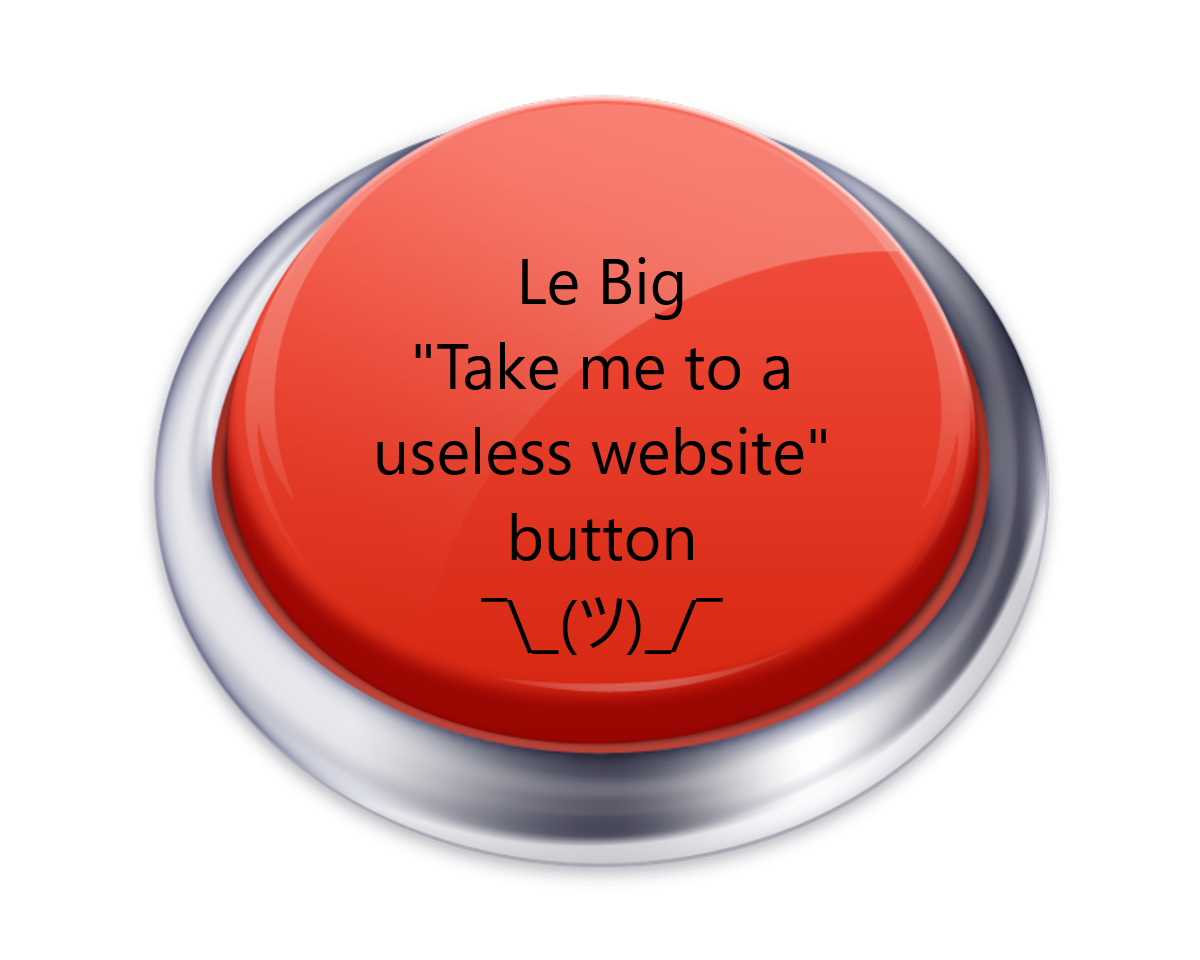
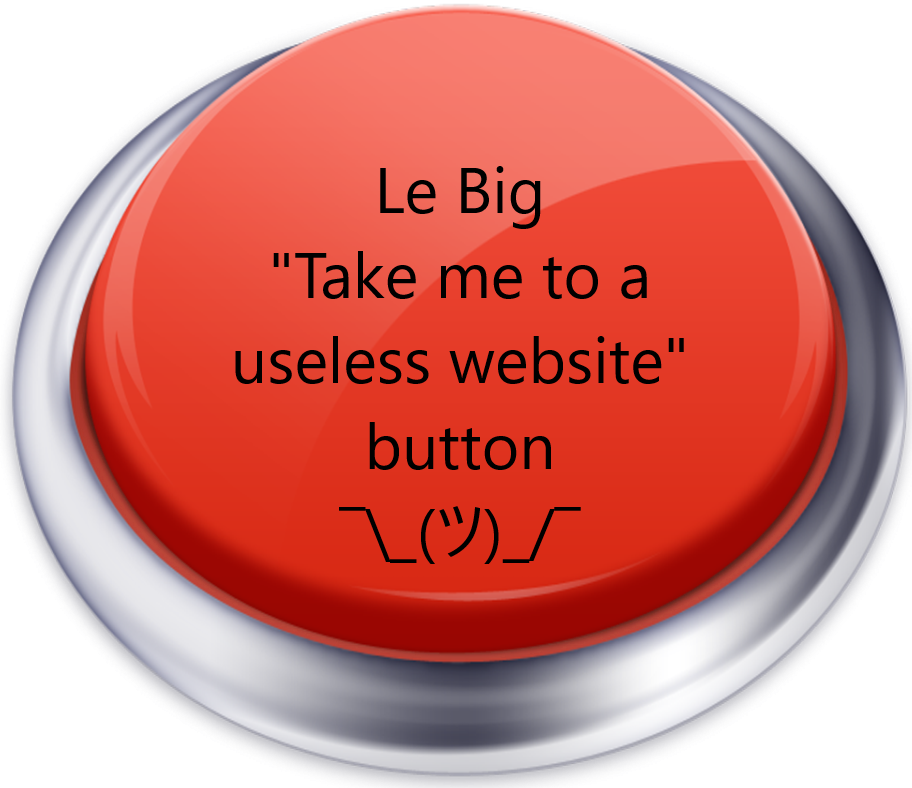
le site

diff --git a/Assignment/Lecture 2/index.html b/Assignment/Lecture 2/index.html
@@ -14,20 +14,23 @@
         <div class="shape2"></div>
         <div class="shape3"></div>
         <div class="shape4"></div>
-        <h1>Hello HTML... again</h1>
+        <h1 id="homeLink">Hello HTML... again</h1>
         <p class="text1">First experiences of learning zis programming was quite rich, 
             but overwhelming, since final project from previous years in college 
             made me rush too much :( <br><b>But</b> needless to say, while I was making a project, 
             <i> I did manage to learn most of HTML tags at least on the basic level 
                 <b>(even if I didn't use most of 'em in the final project lel :) ).</b></i></p>
                 
-        <h2> HTML tags I've learned so far </h2>
+        <h2 id="aboutLink"> HTML tags I've learned so far </h2>
         <div class="text2">
             <a href="https://www.youtube.com"> This is a link tag (a) that leads to the Youtube website </a>
             <ul>
                 <li> This is a several tag mix of (ul) and (li) which make a list thingy </li>
                 <li> and can have as many dots as possible (by spamming (li) )</li>
-                <li> There was a graphical representation of list (like picture slides in online shops) but didn't know how to make it :( )
+                <li> There was a graphical representation of list (like picture slides in online shops) but didn't know how to make it :( ) </li>
+                <li> <a href="#homeLink"> <div class="btn-link">Home</div> </a> </li>
+                <li> <a href="#aboutLink"> <div class="btn-link">About</div> </a> </li>
+                <li> <a href="#endLink"> <div class="btn-link">End</div> </a> </li>
                 </ul>
                 <br>
             <input type="text"> <br>
@@ -39,7 +42,7 @@
         </div>
 
         <a href="https://theuselessweb.com">
-            <img class="zeButtonImage" src="1647025957_5-kartinkin-net-p-kartinki-knopki-5.png" alt="a red button">
+            <img class="zeButtonImage" id="endLink" src="1647025957_5-kartinkin-net-p-kartinki-knopki-5.png" alt="a red button">
         </a>
         
 

diff --git a/Assignment/Lecture 2/style.css b/Assignment/Lecture 2/style.css
@@ -11,7 +11,7 @@ h1, h2, div, a, li, p {
 
 .shape1 {
     position: absolute;
-    margin-left: -10px;
+    margin: 0 0 0 -8px;
     z-index: -3;
     background-color: white;
     width: 100%;
@@ -62,7 +62,7 @@ h2 {
 
 .shape4 {
     position: absolute;
-    margin: 270px 0 0 -10px;
+    margin: 270px 0 0 -7pt;
     z-index: -3;
     background-color: white;
     width: 100%;
@@ -78,5 +78,24 @@ h2 {
 }
 
 .zeButtonImage {
-    size: 50px;
+    width: 300px;
+}
+
+.btn-link {
+    display: inline-block;
+    background-color: #333;
+    color: #fff;
+    padding: 10px 15px;
+    border: none;
+    border-radius: 5px;
+    text-decoration: none; /* To remove the underline from the anchor */
+    text-align: center;
+}
+.btn-link:hover {
+    background-color: #555;
+    cursor: pointer; /* Hand icon when hovering over the button */
+}
+
+li {
+    margin-top: 5px;
 }
